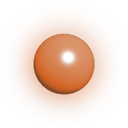
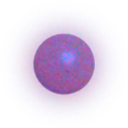
# alternative projectile img

Changed region(s): [[0.1875, 0.2188, 0.7812, 0.8125]]

diff --git a/src/projectile.rs b/src/projectile.rs
@@ -39,7 +39,7 @@ impl <'a> drawable::Drawable for Projectile<'a>
 		let offset = Point::new(self.m_velocity.x as i32, self.m_velocity.y as i32);
 		let baseLoc = Point::new((self.m_sprite.m_location.x as i32) - _cam_pos.x() - offset.x()*5, (self.m_sprite.m_location.y as i32) - _cam_pos.y() - offset.y()*5 );
 		
-		_renderer.set_draw_color(pixels::Color::RGB(230,140,20));
+		_renderer.set_draw_color(pixels::Color::RGB(95,54,228));
 		
 		let max = if self.m_life_time < 48 {
 			self.m_life_time / 2
